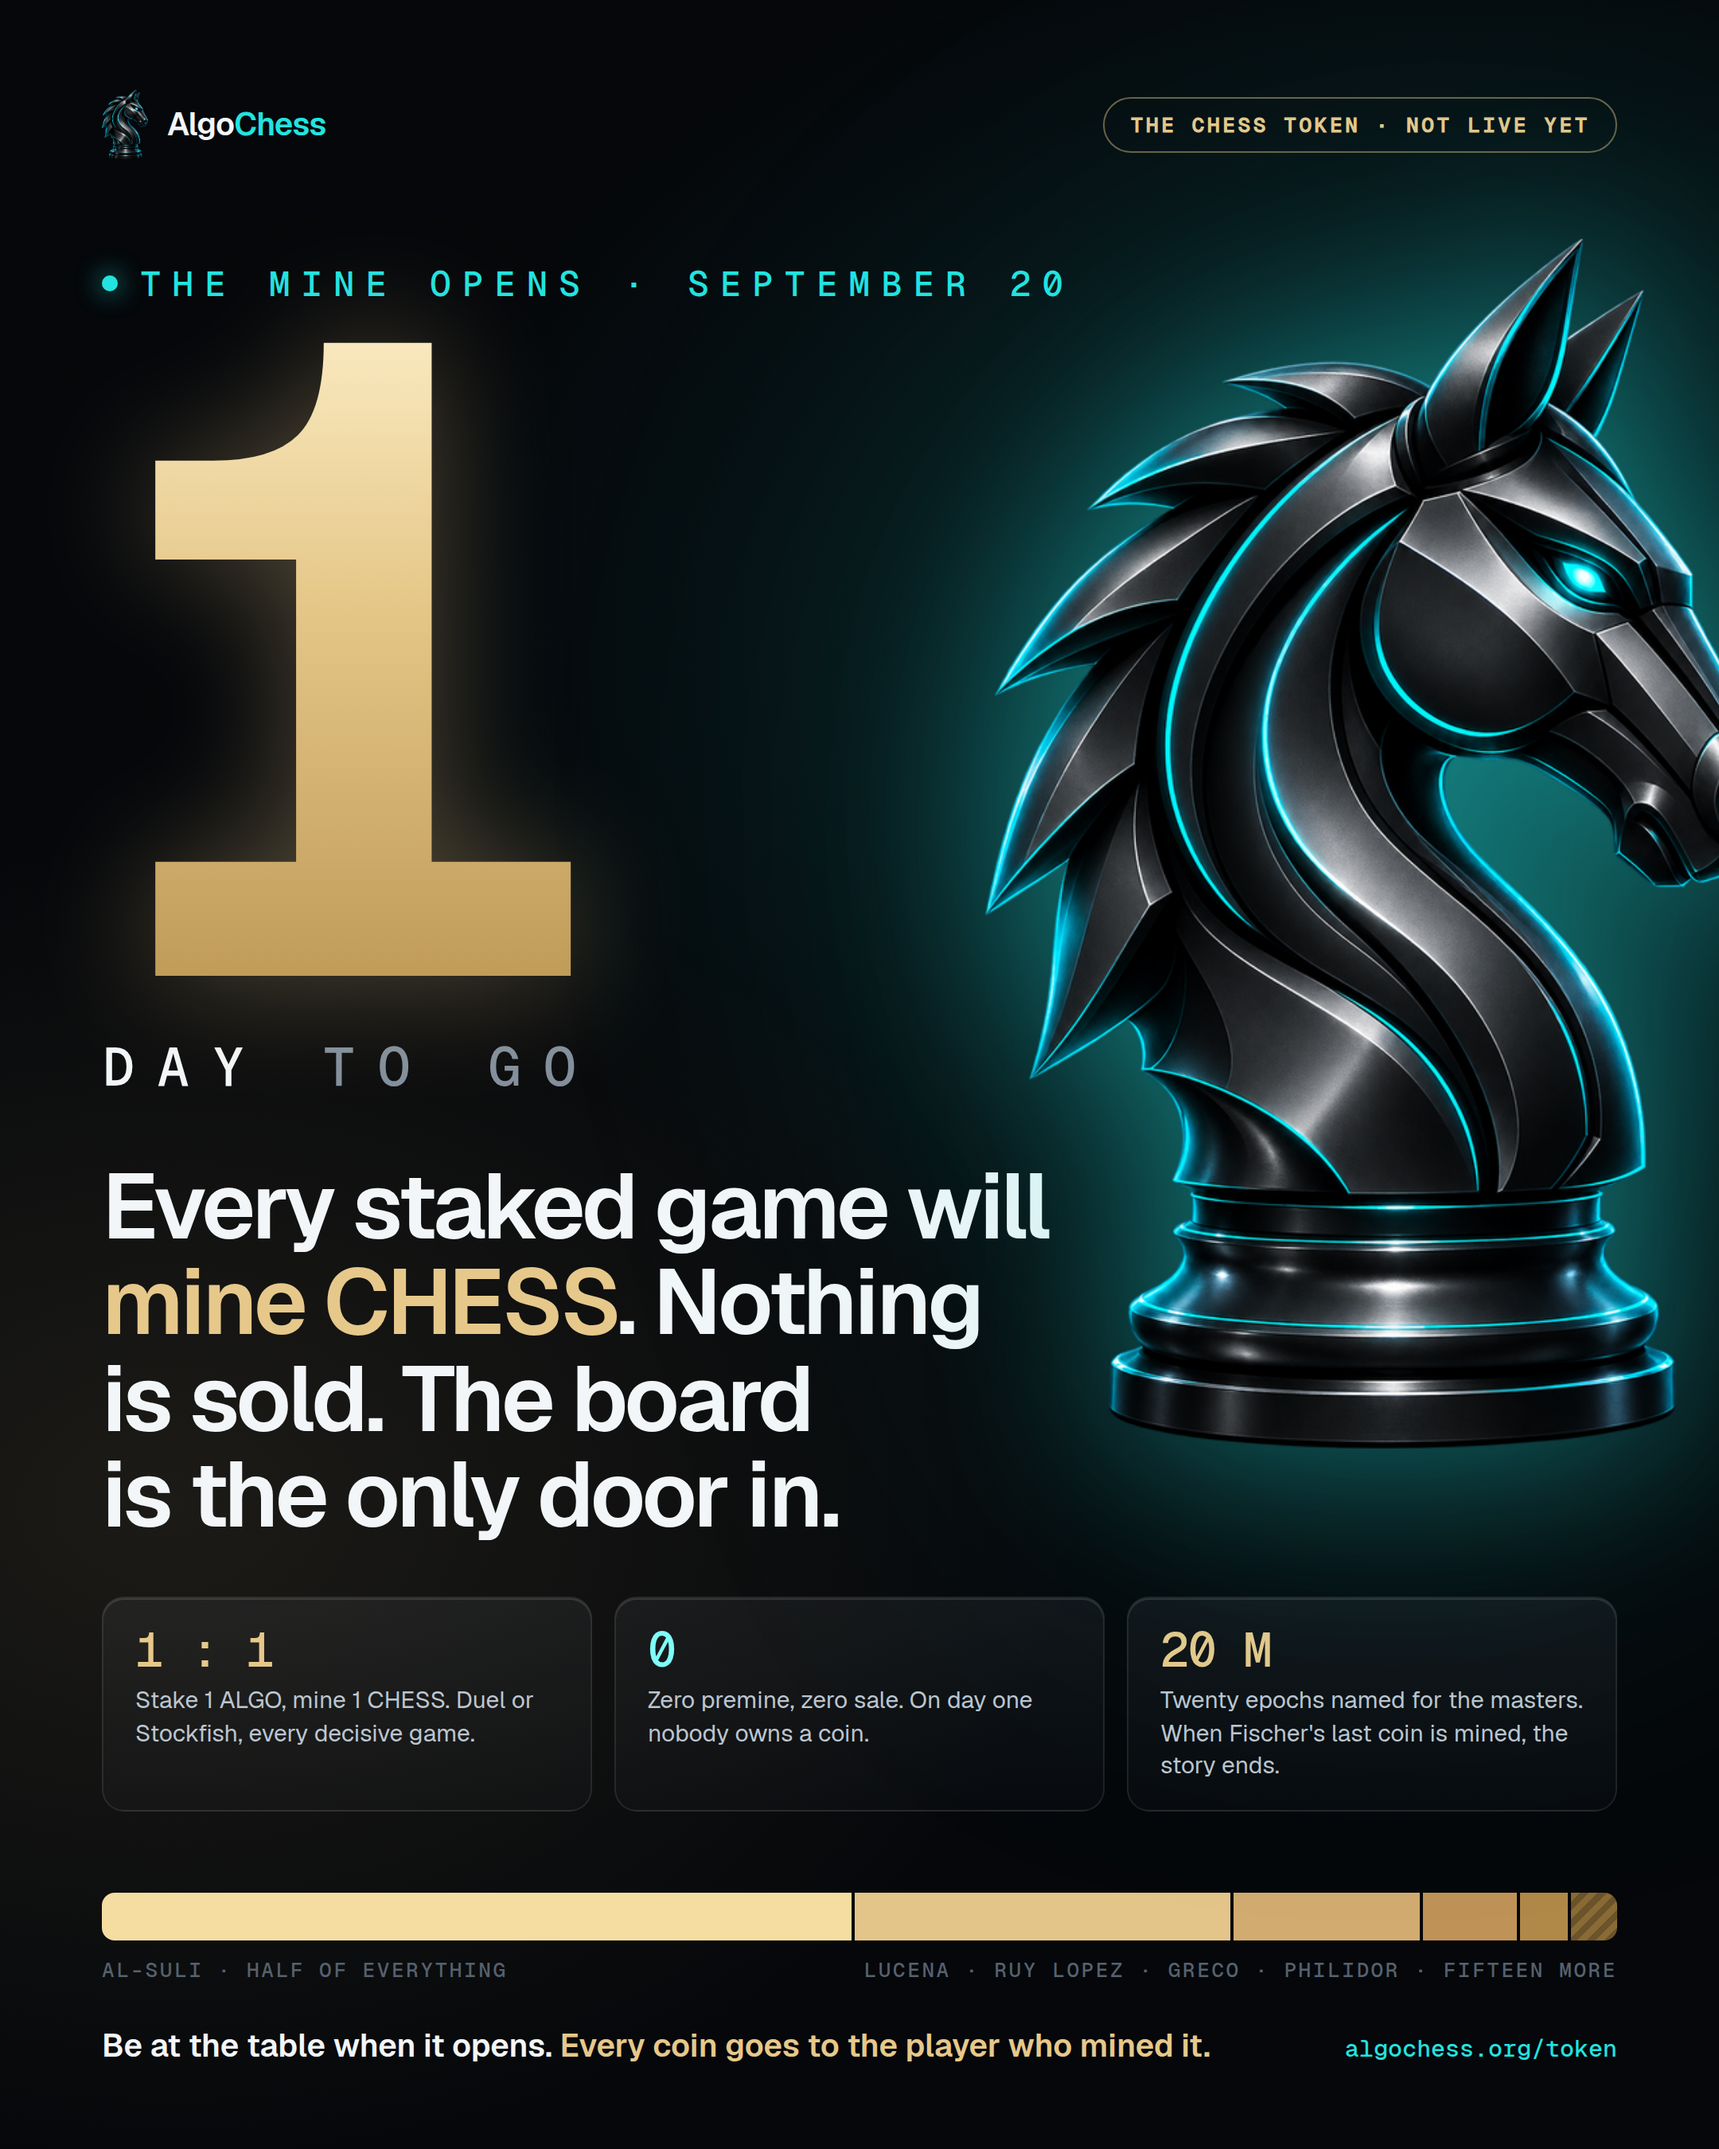
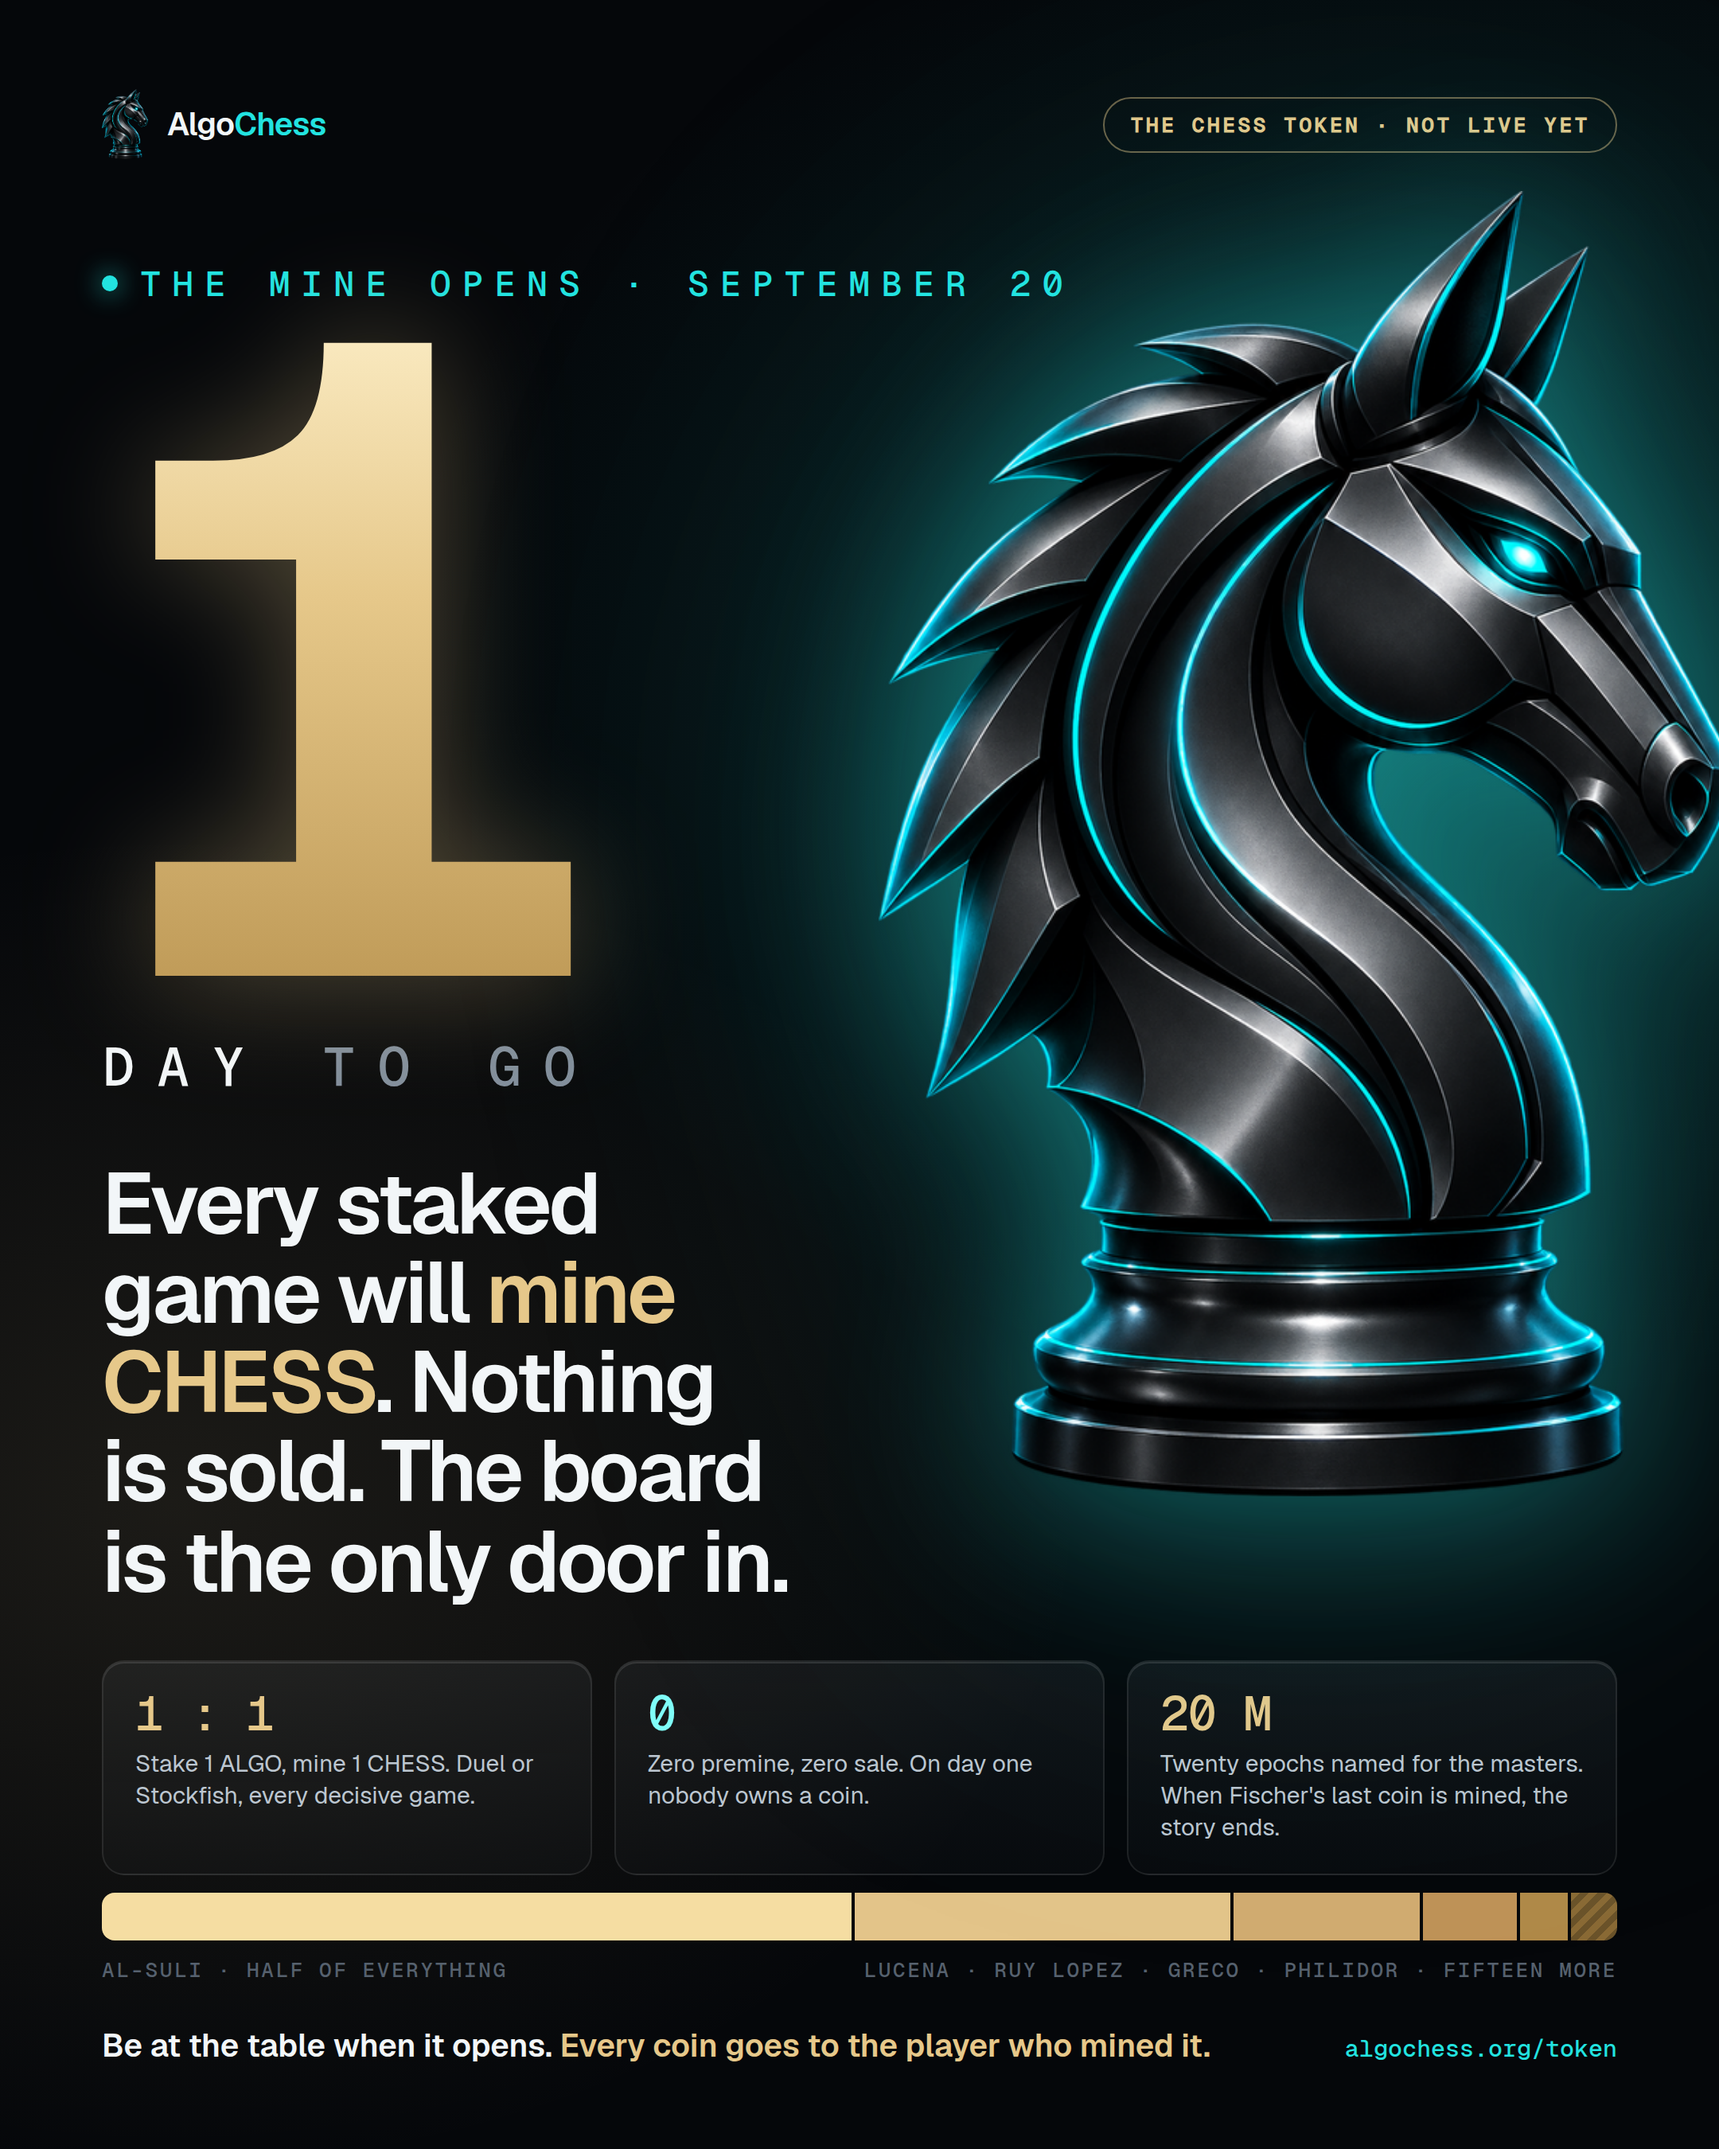
Countdown: a bigger knight, nearer the middle
The owner asked for the horse larger and more central. It grew from 760
to 820px and moved in from the edge. An absolutely positioned image
paints above ordinary text, so the first attempts silently swallowed the
date and the end of the headline; the eyebrow and the headline are now
positioned too, and the headline keeps a 500px column clear of the piece.

Days 7 down to 1 re-rendered, and the generator and its notes carry the
new geometry.

Claude-Session: https://claude.ai/code/session_011ELKA8WvK7zimmKZuoaQVr

Changed region(s): [[0.062, 0.0933, 1.0, 0.84], [0.6514, 0.7467, 0.9306, 0.8711]]

diff --git a/infographics/countdown/make/build.py b/infographics/countdown/make/build.py
@@ -25,15 +25,15 @@ html, body {{ margin: 0; background: #05070a; }}
 .brand img {{ height: 44px; width: auto; }}
 .brand .c {{ color: #22e3e0; }}
 .brand .tag {{ margin-left: auto; font-family: GM, monospace; font-size: 13px; letter-spacing: 0.14em; text-transform: uppercase; color: #e6c88a; border: 1px solid rgba(230,200,138,0.45); border-radius: 999px; padding: 8px 16px; }}
-.knight {{ position: absolute; right: -40px; top: 150px; height: 760px; width: auto; filter: drop-shadow(0 0 60px rgba(34,227,224,0.45)) drop-shadow(0 0 140px rgba(34,227,224,0.18)); }}
-.eyebrow {{ margin-top: 64px; font-family: GM, monospace; font-size: 22px; letter-spacing: 0.32em; text-transform: uppercase; color: #22e3e0; display: flex; align-items: center; gap: 14px; }}
+.knight {{ position: absolute; right: -12px; top: 120px; height: 820px; width: auto; filter: drop-shadow(0 0 60px rgba(34,227,224,0.45)) drop-shadow(0 0 140px rgba(34,227,224,0.18)); }}
+.eyebrow {{ position: relative; margin-top: 64px; font-family: GM, monospace; font-size: 22px; letter-spacing: 0.32em; text-transform: uppercase; color: #22e3e0; display: flex; align-items: center; gap: 14px; }}
 .eyebrow i {{ display: inline-block; width: 10px; height: 10px; border-radius: 999px; background: #22e3e0; box-shadow: 0 0 16px rgba(34,227,224,0.9); }}
 .big {{ position: relative; margin: -30px 0 0 -14px; font-size: 560px; line-height: 0.9; font-weight: 700; letter-spacing: -0.07em; font-variant-numeric: tabular-nums;
   background: linear-gradient(180deg, #fff3cf 0%, #e6c88a 42%, #b8924e 100%); -webkit-background-clip: text; background-clip: text; color: transparent;
   filter: drop-shadow(0 0 40px rgba(230,200,138,0.35)); }}
 .days {{ margin-top: -18px; font-family: GM, monospace; font-size: 34px; letter-spacing: 0.42em; text-transform: uppercase; color: #f2f6f8; }}
 .days span {{ color: #838f9c; }}
-h1 {{ margin: 36px 0 0; max-width: 700px; font-size: 58px; line-height: 1.04; letter-spacing: -0.035em; font-weight: 600; color: #f2f6f8; text-wrap: balance; }}
+h1 {{ position: relative; margin: 36px 0 0; max-width: 500px; font-size: 54px; line-height: 1.04; letter-spacing: -0.035em; font-weight: 600; color: #f2f6f8; text-wrap: balance; }}
 h1 .gold {{ color: #e6c88a; }}
 .facts {{ margin-top: 34px; display: flex; gap: 14px; }}
 .fact {{ flex: 1 1 0; border-radius: 14px; border: 1px solid rgba(255,255,255,0.09); background: linear-gradient(180deg, rgba(143,154,164,0.09), rgba(143,154,164,0.03)); box-shadow: inset 0 1px 0 rgba(255,255,255,0.12); padding: 18px 20px; display: flex; flex-direction: column; gap: 6px; }}

diff --git a/infographics/countdown/make/README.md b/infographics/countdown/make/README.md
@@ -18,9 +18,17 @@ fonts and the mark, so the card of any day is rebuilt pixel for pixel.
   -0.07em, gold gradient #fff3cf to #e6c88a to #b8924e, a soft gold glow.
   Under it "DAYS TO GO" in mono, tracked 0.42em.
 - The knight (knight-full.png, the whole piece, never a crop) at the right,
-  760px tall, with a cyan rim glow; it may overlap the number.
+  820px tall, `right: -12px; top: 120px`, with a cyan rim glow. It is the
+  second hero and it may overlap the number, which paints over it.
+  Owner, 2026-09-13: "bring the horse more to the center and get it bigger."
+  It grew from 760px and moved 28px in from the edge; anything much larger
+  ate the date and the headline, which is why the two of them are now
+  `position: relative` (an absolutely positioned image paints ABOVE ordinary
+  text, so the words simply vanished behind it) and the headline keeps its
+  own 500px column clear of the piece.
 - Eyebrow above the number: "The mine opens · September 20", cyan dot.
-- One sentence under the number: "Every staked game will mine CHESS.
+- One sentence under the number, in a 500px column at 54px so it never runs
+  under the knight: "Every staked game will mine CHESS.
   Nothing is sold. The board is the only door in." with "mine CHESS" in gold.
 - Three glass facts: 1 : 1, 0, 20 M. Then the supply strip to scale
   (al-Suli half of everything, the striped sliver for the last fifteen),
